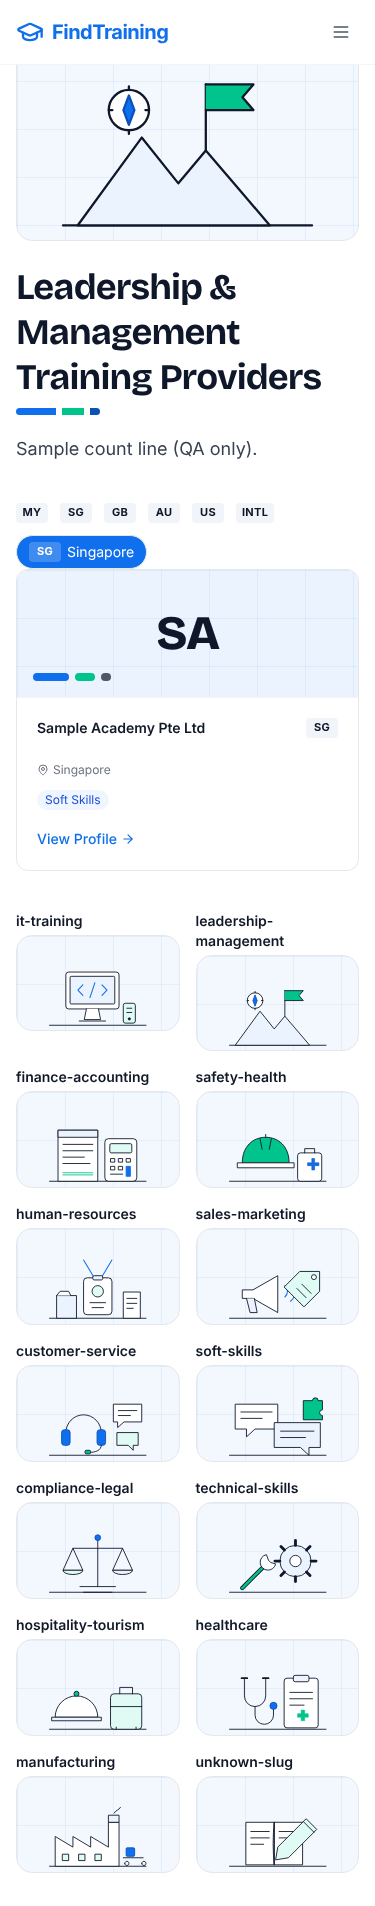
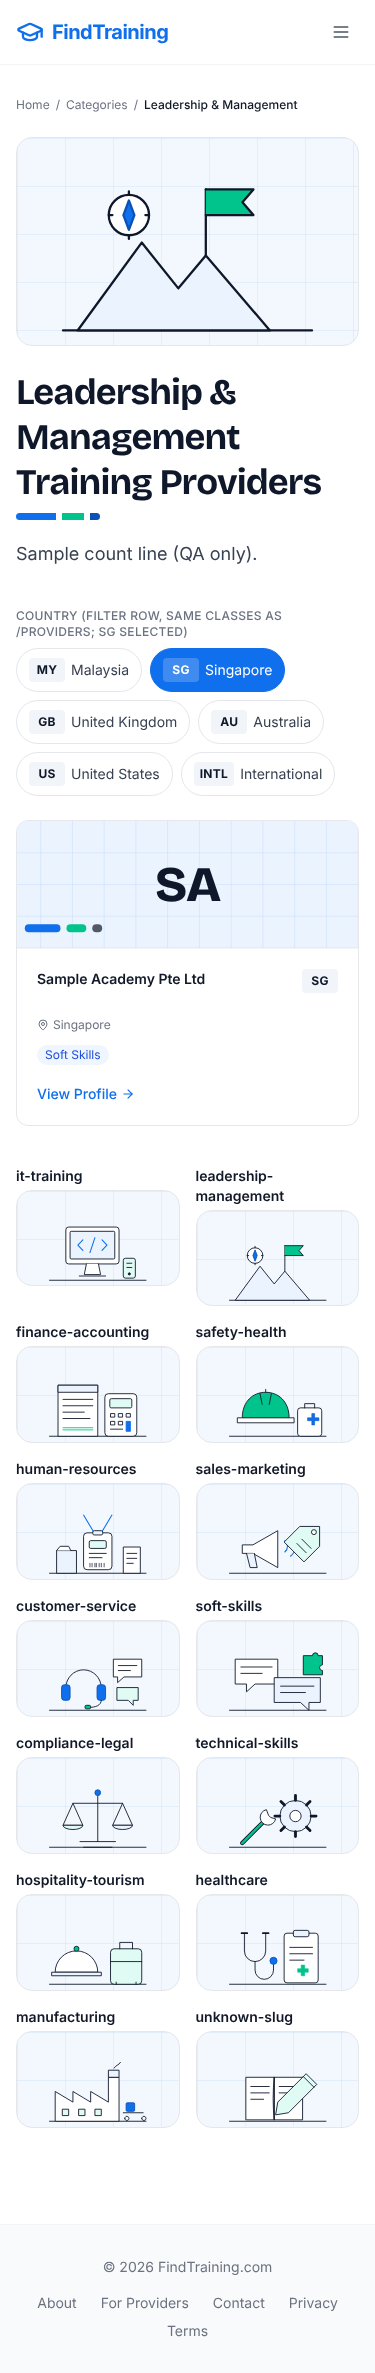
findtraining inner: review fixes (covers, chips, badge, monogram ink)
- /resources covers: one 16:9 box with a safe area, so titles in a row line up; own drawings for
  the eTRiS claim (laptop + claim form), the budget (year planner) and the cost guide (quote + coins).
- HR drawing: the ID badge has no face circle (object only).
- Country chips 24px; every country link/filter pill has a 44px tap area below sm. The second
  'SG Singapore' chip was a QA-sample artefact; the sample now mirrors the real /providers filter row.
- ProviderMark monogram drawn as SVG so the stricter gate (e921d15) counts it; a logo counts only by
  its own size.
image-density (e921d15): / PASS 9 visuals, hero 38%/38%; /resources PASS 15, covers all 387x218.
No overflow at 375 or 320. No category route renders without DB env (sample props on /resources).

Claude-Session: https://claude.ai/code/session_01Rv3nrotK7PECwtWeSiUTNL

diff --git a/apps/findtraining/src/components/resources/GuideCover.tsx b/apps/findtraining/src/components/resources/GuideCover.tsx
@@ -2,6 +2,74 @@ import { CategoryArt } from '@/components/category/CategoryArt'
 import { CountryArt } from '@/components/home/CountryArt'
 import { RegisterArt, LevyArt } from '@/components/home/WhyArt'
 
+const INK = '#0F172A'
+const BLUE = '#0F6FEC'
+const BLUE_LIGHT = '#EBF3FE'
+const TEAL = '#00C48C'
+const TEAL_LIGHT = '#E0FBF4'
+
+// A claim form going up from a laptop: for the eTRiS claim guide.
+function ClaimArt() {
+  return (
+    <svg viewBox="0 0 240 150" className="h-auto w-full" aria-hidden="true">
+      <g fill="none" stroke={INK} strokeWidth="2" strokeLinejoin="round" strokeLinecap="round">
+        <rect x="30" y="58" width="104" height="70" rx="6" fill="#fff" />
+        <rect x="38" y="66" width="88" height="54" rx="2" fill={BLUE_LIGHT} />
+        <path d="M22 128h120l6 10H16z" fill="#fff" />
+        <path d="M82 104V80M72 90l10-10 10 10" stroke={BLUE} strokeWidth="3" />
+        <path d="M150 18h66v112h-66z" fill="#fff" />
+        <path d="M150 18h66v16h-66z" fill={TEAL_LIGHT} />
+        <rect x="160" y="46" width="8" height="8" rx="1.5" fill={TEAL} stroke={TEAL} />
+        <rect x="160" y="64" width="8" height="8" rx="1.5" fill={TEAL} stroke={TEAL} />
+        <rect x="160" y="82" width="8" height="8" rx="1.5" />
+        <path d="M174 50h32M174 68h28M174 86h24M160 108h46" />
+        <path d="M160 116h30" stroke={BLUE} strokeWidth="3" />
+      </g>
+    </svg>
+  )
+}
+
+// A course quote on a receipt beside a stack of coins: for the training-cost guide. No figures.
+function QuoteArt() {
+  return (
+    <svg viewBox="0 0 240 150" className="h-auto w-full" aria-hidden="true">
+      <g fill="none" stroke={INK} strokeWidth="2" strokeLinejoin="round" strokeLinecap="round">
+        <path d="M40 16h84v118l-10-6-11 6-10-6-11 6-10-6-11 6-10-6-11 6z" fill="#fff" />
+        <path d="M52 36h60M52 52h44M52 66h52M52 80h36" />
+        <path d="M52 100h60M52 106h60" stroke={TEAL} />
+        <ellipse cx="176" cy="122" rx="30" ry="9" fill={TEAL} />
+        <path d="M146 122v-10M206 122v-10" />
+        <ellipse cx="176" cy="112" rx="30" ry="9" fill={TEAL_LIGHT} />
+        <path d="M146 112v-10M206 112v-10" />
+        <ellipse cx="176" cy="102" rx="30" ry="9" fill="#fff" />
+        <path d="M146 102v-10M206 102v-10" />
+        <ellipse cx="176" cy="92" rx="30" ry="9" fill={BLUE_LIGHT} />
+        <path d="M168 92h16" stroke={BLUE} strokeWidth="3" />
+      </g>
+    </svg>
+  )
+}
+
+// A year planner with booked training blocks: for the budget guide.
+function PlannerArt() {
+  return (
+    <svg viewBox="0 0 240 150" className="h-auto w-full" aria-hidden="true">
+      <g fill="none" stroke={INK} strokeWidth="2" strokeLinejoin="round" strokeLinecap="round">
+        <rect x="26" y="22" width="188" height="112" rx="6" fill="#fff" />
+        <path d="M26 42h188" />
+        <path d="M26 22h188v20H26z" fill={BLUE_LIGHT} />
+        <path d="M58 42v92M90 42v92M122 42v92M154 42v92M186 42v92M26 70h188M26 98h188" strokeWidth="1.25" />
+        <rect x="30" y="47" width="56" height="18" rx="4" fill={BLUE} stroke={BLUE} />
+        <rect x="126" y="75" width="56" height="18" rx="4" fill={TEAL} stroke={TEAL} />
+        <rect x="62" y="103" width="24" height="18" rx="4" fill={TEAL_LIGHT} />
+        <rect x="158" y="103" width="52" height="18" rx="4" fill={BLUE_LIGHT} />
+        <circle cx="46" cy="32" r="3" fill={INK} />
+        <circle cx="194" cy="32" r="3" fill={INK} />
+      </g>
+    </svg>
+  )
+}
+
 /**
  * GuideCover: the designed cover for a guide card (VISUAL-KIT.md, Part B "Guides"). The kit's timetable panel
  * with the drawing that matches the guide's subject, and its category as the eyebrow. No photo, no figures.
@@ -12,11 +80,11 @@ const BY_SLUG: Record<string, () => JSX.Element> = {
   'what-is-hrd-corp-levy': () => <LevyArt />,
   'how-to-find-hrdf-training-provider': () => <RegisterArt />,
   'best-it-training-providers-malaysia-2026': () => <CategoryArt slug="it-training" />,
-  'how-to-submit-hrdf-claim-etris': () => <CategoryArt slug="human-resources" />,
+  'how-to-submit-hrdf-claim-etris': () => <ClaimArt />,
   'hrdf-approved-soft-skills-training-malaysia': () => <CategoryArt slug="soft-skills" />,
   'sales-training-providers-malaysia': () => <CategoryArt slug="sales-marketing" />,
   'hrdf-levy-vs-hrd-corp-explained': () => <CategoryArt slug="compliance-legal" />,
-  'training-budget-planning-malaysia': () => <CategoryArt slug="finance-accounting" />,
+  'training-budget-planning-malaysia': () => <PlannerArt />,
   'uk-apprenticeship-levy-guide': () => <CountryArt code="GB" />,
   'skillsfuture-credit-employer-guide-singapore': () => <CountryArt code="SG" />,
   'australia-rto-buyers-guide': () => <CountryArt code="AU" />,
@@ -27,18 +95,22 @@ const BY_SLUG: Record<string, () => JSX.Element> = {
 function artFor(slug: string): JSX.Element {
   const known = BY_SLUG[slug]
   if (known) return known()
-  if (slug.includes('cost') || slug.includes('budget')) return <CategoryArt slug="finance-accounting" />
+  if (slug.includes('budget')) return <PlannerArt />
+  if (slug.includes('cost')) return <QuoteArt />
   if (slug.includes('levy') || slug.includes('claim')) return <LevyArt />
   return <CategoryArt slug="" />
 }
 
 export function GuideCover({ slug, category }: { slug: string; category: string }) {
   return (
-    <div data-visual="cover" className="ft-timetable relative bg-brand-blue-light/60 px-8 pt-10">
-      <span className="absolute left-4 top-4 rounded-full bg-white px-3 py-1 text-xs font-semibold text-brand-teal-dark shadow-sm">
+    <div data-visual="cover" className="ft-timetable relative aspect-[16/9] w-full bg-brand-blue-light/60">
+      <span className="absolute left-4 top-4 z-10 rounded-full bg-white px-3 py-1 text-xs font-semibold text-brand-teal-dark shadow-sm">
         {category}
       </span>
-      <div className="mx-auto max-w-[280px]">{artFor(slug)}</div>
+      {/* Safe area below the label; the drawing keeps its 16:10 shape and never touches the edges. */}
+      <div className="absolute inset-x-4 bottom-3 top-12 flex items-end justify-center">
+        <div className="aspect-[16/10] h-full max-w-full">{artFor(slug)}</div>
+      </div>
     </div>
   )
 }

diff --git a/apps/findtraining/src/components/ProviderMark.tsx b/apps/findtraining/src/components/ProviderMark.tsx
@@ -29,10 +29,11 @@ export function providerInitials(name: string): string {
 
 // Three kit tints; the pick is stable per name so a provider keeps its colour everywhere.
 const TINTS = [
-  { bg: 'bg-brand-blue-light', bar1: 'bg-brand-blue', bar2: 'bg-brand-teal', ink: 'text-brand-ink' },
-  { bg: 'bg-brand-teal-light', bar1: 'bg-brand-teal-dark', bar2: 'bg-brand-blue', ink: 'text-brand-ink' },
-  { bg: 'bg-brand-mist', bar1: 'bg-brand-blue-dark', bar2: 'bg-brand-teal', ink: 'text-brand-ink' },
+  { bg: '#EBF3FE', bar1: '#0F6FEC', bar2: '#00C48C' },
+  { bg: '#E0FBF4', bar1: '#00916A', bar2: '#0F6FEC' },
+  { bg: '#F1F5F9', bar1: '#0A52B8', bar2: '#00C48C' },
 ] as const
+const INK = '#0F172A'
 
 function tintFor(name: string) {
   let h = 0
@@ -55,12 +56,11 @@ export function ProviderMark({ name, logoUrl, variant = 'band', className = '' }
 
   if (showLogo) {
     return (
-      <div
-        data-visual="cover"
-        className={`relative flex items-center justify-center overflow-hidden bg-white ${size} ${className}`}
-      >
+      <div className={`relative flex items-center justify-center overflow-hidden bg-white ${size} ${className}`}>
+        {/* The logo itself is the item image; it counts as a visual only when it is large enough. */}
         {/* eslint-disable-next-line @next/next/no-img-element -- provider-supplied URLs on any host */}
         <img
+          data-visual="cover"
           src={logoUrl as string}
           alt={`${name} logo`}
           loading="lazy"
@@ -72,24 +72,37 @@ export function ProviderMark({ name, logoUrl, variant = 'band', className = '' }
   }
 
   const tint = tintFor(name)
+  const [w, h] = variant === 'tile' ? [256, 176] : [360, 128]
+  const cell = 32
   return (
-    <div
-      data-visual="cover"
-      aria-hidden="true"
-      className={`ft-timetable relative flex items-center justify-center overflow-hidden ${tint.bg} ${size} ${className}`}
-    >
-      <span
-        className={`font-display font-extrabold leading-none tracking-tight ${tint.ink} ${
-          variant === 'tile' ? 'text-6xl' : 'text-5xl'
-        }`}
-      >
-        {providerInitials(name)}
-      </span>
-      <span className="absolute left-4 bottom-4 flex items-center gap-1.5">
-        <span className={`block h-2 w-9 rounded-full ${tint.bar1}`} />
-        <span className={`block h-2 w-5 rounded-full ${tint.bar2}`} />
-        <span className="block h-2 w-2.5 rounded-full bg-brand-ink/70" />
-      </span>
+    <div data-visual="cover" aria-hidden="true" className={`relative overflow-hidden ${size} ${className}`}>
+      <svg viewBox={`0 0 ${w} ${h}`} preserveAspectRatio="xMidYMid slice" className="absolute inset-0 h-full w-full">
+        <rect width={w} height={h} fill={tint.bg} />
+        <g stroke="#0F6FEC" strokeOpacity="0.08" strokeWidth="1">
+          {Array.from({ length: Math.ceil(w / cell) }, (_, i) => (
+            <path key={`v${i}`} d={`M${(i + 1) * cell} 0V${h}`} />
+          ))}
+          {Array.from({ length: Math.ceil(h / cell) }, (_, i) => (
+            <path key={`h${i}`} d={`M0 ${(i + 1) * cell}H${w}`} />
+          ))}
+        </g>
+        <text
+          x={w / 2}
+          y={h / 2}
+          textAnchor="middle"
+          dominantBaseline="central"
+          fill={INK}
+          className="font-display"
+          fontWeight="800"
+          fontSize={variant === 'tile' ? 64 : 50}
+          letterSpacing="-1"
+        >
+          {providerInitials(name)}
+        </text>
+        <rect x="16" y={h - 24} width="36" height="8" rx="4" fill={tint.bar1} />
+        <rect x="58" y={h - 24} width="20" height="8" rx="4" fill={tint.bar2} />
+        <rect x="84" y={h - 24} width="10" height="8" rx="4" fill={INK} fillOpacity="0.7" />
+      </svg>
     </div>
   )
 }

diff --git a/apps/findtraining/src/app/providers/page.tsx b/apps/findtraining/src/app/providers/page.tsx
@@ -130,7 +130,7 @@ export default async function ProvidersPage({
           <div className="flex flex-wrap gap-2">
             <Link
               href={countryHref(null)}
-              className={`px-3 py-1.5 rounded-full text-sm border transition-colors ${
+              className={`inline-flex min-h-[44px] items-center px-3 py-1.5 rounded-full text-sm border transition-colors sm:min-h-0 ${
                 activeCountry === null
                   ? 'bg-[#0F6FEC] text-white border-[#0F6FEC]'
                   : 'bg-white text-gray-700 border-gray-200 hover:border-[#0F6FEC]'
@@ -145,7 +145,7 @@ export default async function ProvidersPage({
                 <Link
                   key={code}
                   href={countryHref(code)}
-                  className={`inline-flex items-center gap-1.5 px-3 py-1.5 rounded-full text-sm border transition-colors ${
+                  className={`inline-flex min-h-[44px] items-center gap-1.5 px-3 py-1.5 rounded-full text-sm border transition-colors sm:min-h-0 ${
                     activeCountry === code
                       ? 'bg-[#0F6FEC] text-white border-[#0F6FEC]'
                       : 'bg-white text-gray-700 border-gray-200 hover:border-[#0F6FEC]'

diff --git a/apps/findtraining/src/components/category/CategoryArt.tsx b/apps/findtraining/src/components/category/CategoryArt.tsx
@@ -71,8 +71,9 @@ const ART: Record<string, () => JSX.Element> = {
       <path d="M120 20l30 50M200 20l-30 50" stroke={BLUE} strokeWidth="3" />
       <rect x="120" y="70" width="80" height="104" rx="10" fill="#fff" />
       <rect x="146" y="64" width="28" height="12" rx="4" fill={BLUE_LIGHT} />
-      <circle cx="160" cy="108" r="16" fill={TEAL_LIGHT} />
-      <path d="M138 140h44M144 154h32" />
+      <rect x="136" y="92" width="48" height="22" rx="4" fill={TEAL_LIGHT} />
+      <path d="M136 128h48M136 140h36" />
+      <path d="M138 156v10M144 156v10M152 156v10M156 156v10M164 156v10M170 156v10M178 156v10" strokeWidth="2" />
       <path d="M44 120h56v64H44z" fill={BLUE_LIGHT} />
       <path d="M44 120l10-12h24l6 12" fill="#fff" />
       <path d="M232 110h48v74h-48z" fill="#fff" />

diff --git a/apps/findtraining/src/components/CountryPage.tsx b/apps/findtraining/src/components/CountryPage.tsx
@@ -126,7 +126,7 @@ export default async function CountryPage({ countryCode }: { countryCode: string
             {otherCountries.map((c, i) => (
               <span key={c.code}>
                 {i > 0 && <span className="mx-1.5">·</span>}
-                <Link href={`/${c.slug}`} className="inline-flex items-center gap-1.5 text-gray-400 hover:text-white transition-colors">
+                <Link href={`/${c.slug}`} className="inline-flex min-h-[44px] items-center gap-1.5 text-gray-400 hover:text-white transition-colors sm:min-h-0">
                   <CountryChip code={c.code} tone="dark" /> {c.name}
                 </Link>
               </span>

diff --git a/apps/findtraining/src/components/CountryChip.tsx b/apps/findtraining/src/components/CountryChip.tsx
@@ -19,7 +19,7 @@ export function CountryChip({ code, tone = 'light', className = '' }: CountryChi
         : 'bg-brand-mist text-brand-ink'
   return (
     <span
-      className={`inline-flex h-5 min-w-[2rem] items-center justify-center rounded px-1.5 text-[11px] font-bold leading-none tracking-wide ${toneClass} ${className}`}
+      className={`inline-flex h-6 min-w-[2.25rem] items-center justify-center rounded px-1.5 text-xs font-bold leading-none tracking-wide ${toneClass} ${className}`}
     >
       {label}
     </span>
